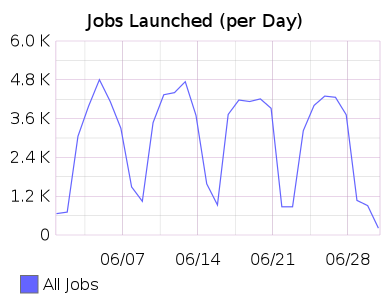
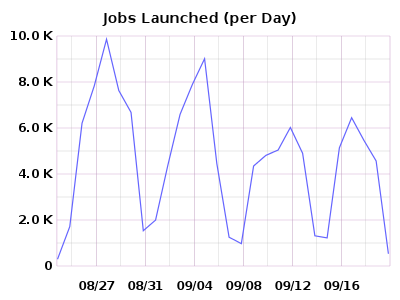
Update talk with new information and images.
* images/contributor-pie-chart.png: Up to date stackyltics graph for
for Havana dev cycle.

* images/jobs-launched.png: Capture end of H3 jobs launched as the
numbers there are very impressive. Make text larger and bolder, remove
legend (title covers legend info).

* images/status.png: Use recent Zuul status screen cap to show current
pipelines and sparklines.

* index.html: Add Clark to author list, update project list to include
marconi, fix a JJB documentation link TODO, correct python test
platforms, and note integration tests are run in parallel.

diff --git a/index.html b/index.html
@@ -47,6 +47,8 @@ src="graphics/openstack-cloud-software-horizontal-small.png" /></div>
     &lt;<a href="mailto:jeblair@openstack.org">jeblair@openstack.org</a>&gt;</div>
   <div class="smaller">Jeremy Stanley
     &lt;<a href="mailto:fungi@yuggoth.org">fungi@yuggoth.org</a>&gt;</div>
+  <div class="smaller">Clark Boylan
+    &lt;<a href="mailto:cboylan@sapwetik.org">cboylan@sapwetik.org</a>&gt;</div>
 </div>
 
 <div class="slide">
@@ -74,6 +76,7 @@ src="graphics/openstack-cloud-software-horizontal-small.png" /></div>
       <li>horizon (dashboard)</li>
       <li class="gray">trove (databases)</li>
       <li class="gray">ironic (bare metal)</li>
+      <li class="gray">marconi (message queueing)</li>
     </ul></li>
   </ul></div>
   <div style="float:left;width:50%"><ul>
@@ -89,6 +92,7 @@ src="graphics/openstack-cloud-software-horizontal-small.png" /></div>
       <li>python-openstackclient</li>
       <li class="gray">python-troveclient</li>
       <li class="gray">python-ironicclient</li>
+      <li class="gray">python-marconiclient</li>
     </ul></li>
   </ul></div>
   <div class="indent"><a href="https://wiki.openstack.org/wiki/Projects">https://wiki.openstack.org/wiki/Projects</a></div>
@@ -233,7 +237,7 @@ src="graphics/openstack-cloud-software-horizontal-small.png" /></div>
 <h1>Development Environment</h1>
   <ul>
   <li>Python<ul>
-    <li>CentOS (2.6), Ubuntu LTS (2.7), Fedora (3.3)</li>
+    <li>CentOS (2.6), Ubuntu LTS (2.7, 3.3, pypy)</li>
     <li>PEP-8 standards</li>
     <li>Oslo (common libraries)</li>
     <li>virtualenv/pip/tox</li>
@@ -417,6 +421,7 @@ To ssh://corvus@review.openstack.org:29418/openstack/neutron.git
   <li>Maintain a pool of cloud nodes</li>
   <li>Slave can only be used for one test run</li>
   <li>Python and shell scripts run as jobs</li>
+  <li>Partition tests and run them in parallel</li>
 </ul>
 </div>
 
@@ -869,7 +874,7 @@ projects:
 <ul>
   <li>TONS of consistent projects</li>
   <li>Manage everything through Git and code review</li>
-  <!-- TODO: link to jjb documentation instead --><li><a href="https://github.com/openstack/openstack-ci-puppet/tree/master/modules/jenkins_jobs">https://github.com/openstack/openstack-ci-puppet/tree/master/modules/jenkins_jobs</a></li>
+  <li><a href="http://ci.openstack.org/jenkins-job-builder/">Jenkins Job Builder</a></li>
   <li>Manage jobs as YAML files in Git</li>
   <li>Jobs updated via Jenkins API</li>
   <li>groupings of jobs supported</li>
